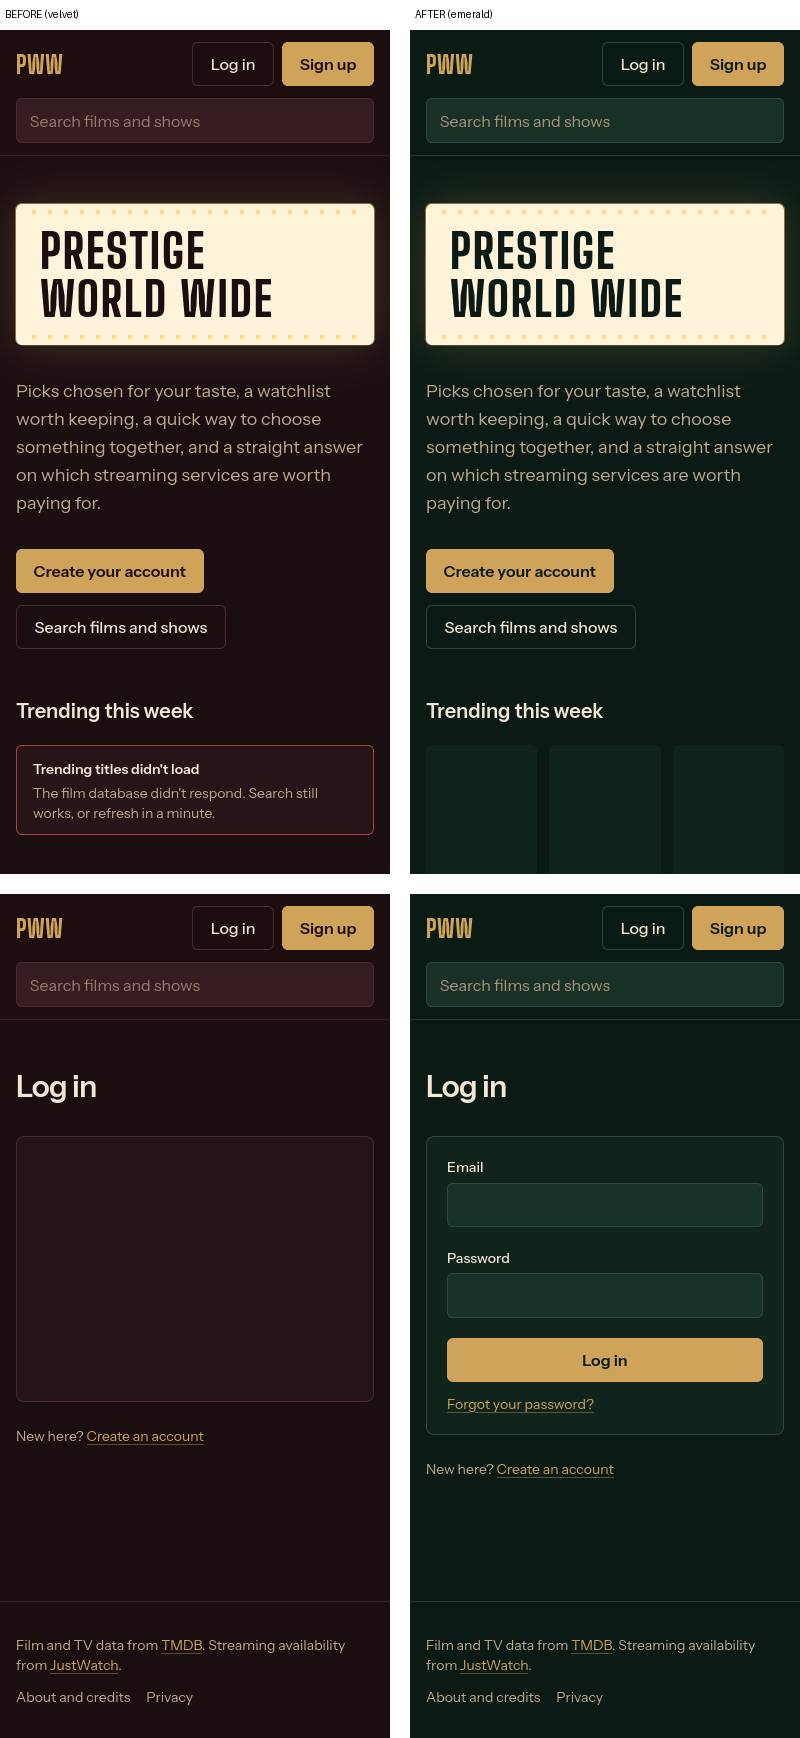
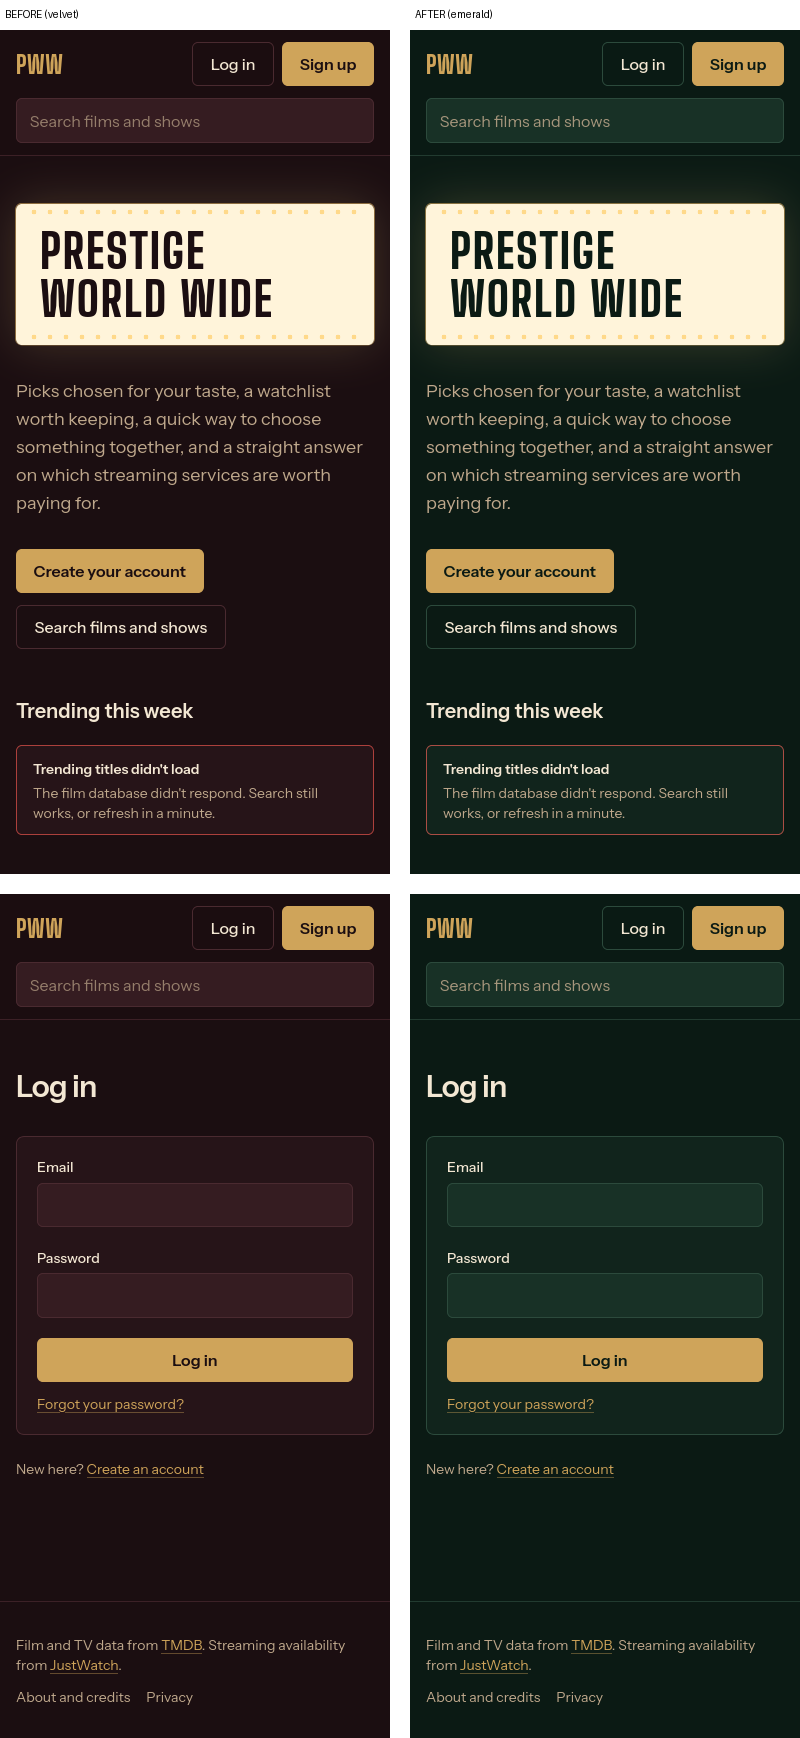
Palette review fixes: accurate contrast claims, like-for-like phone screenshots, email colours noted

Changed region(s): [[0.0312, 0.7146, 0.4375, 0.8389], [0.5625, 0.435, 0.7812, 0.4661], [0.0625, 0.6525, 0.0938, 0.6835]]

diff --git a/src/app/globals.css b/src/app/globals.css
@@ -6,8 +6,9 @@
  * you should press, and a backlit marquee for the one thing you should read.
  *
  * The surface names are fabrics, not colours: since 24 Nov the velvet is
- * emerald (docs/decisions.md -> Design). Every text colour here meets WCAG AA
- * on velvet, curtain and plush; docs/design.md -> Tokens has the ratios.
+ * emerald (docs/decisions.md -> Design). Every text colour meets WCAG AA on
+ * the backgrounds it's used on, but exit (error red) is only 4.2:1 on plush:
+ * never put error text on an input. docs/design.md -> Tokens has the ratios.
  */
 @theme {
   --color-velvet: #0b1a14;

diff --git a/TOM.md b/TOM.md
@@ -2,13 +2,13 @@
 
 **For Tom.** This is the one page to read. Agents rewrite it at the end of every session, in plain English. The technical detail lives in `docs/`.
 
-**Last updated:** 24 Nov 2026, by Claude (install hook session)
+**Last updated:** 25 Nov 2026, by Claude (emerald palette session)
 
 ---
 
 ## In one line
 
-Design direction chosen: emerald and brass. Cloud agents now install the app's packages themselves. Next: the package updates, the emerald colours, then the first live version.
+Three pull requests are waiting for you: cloud agents installing packages themselves, small package updates, and the new emerald look. After those: the TMDB token and Vercel, so the site can go live.
 
 ## Start building from your phone
 
@@ -28,6 +28,7 @@ Most important first. Agents add to this list and never remove an item until it'
 |---|---|---|---|
 | 0 | **Protect `main`** | So agents can't skip review. (PR #4 is merged, and the setup-script step is no longer needed: this session's PR installs packages automatically.) | GitHub → Pww2C → Settings → Branches → add a rule for `main`: require a pull request and passing checks. |
 | 1 | **Merge the install-hook PR** | Cloud agents install packages themselves once it's in. It also records emerald and brass as your design direction. | Review and merge it in the GitHub app. |
+| 1a | **Judge the emerald colours** | It's your look; the shades are the agent's proposal. | Open the emerald pull request and look at the before/after pictures (`docs/design/`). Merge it after the install-hook one, or say "lighter", "greener" or similar and an agent will adjust. |
 | 2 | **Skim the phase plans** | They're now filled in from your prototype. Anything that's wrong is cheapest to fix now. | `docs/specs/01`–`06`; items marked *(prototype)*. Say if any prototype extras should wait (#11). |
 | 3 | **Get a TMDB token** | The app can't load any films without it. | themoviedb.org → Settings → API → copy the long *API Read Access Token*. Put it straight into Vercel, never into a chat. |
 | 4 | **Set up Vercel** | This is what puts the site online. | Steps are in `docs/setup.md`. |
@@ -42,6 +43,12 @@ These are copied from `docs/open-questions.md`, and only the ones that are block
 ## What happened recently
 
 Newest first. Each session gets a few lines here, and the full detail goes in `docs/handoff.md`.
+
+**25 Nov 2026: The emerald look**
+- The site's dark red background is now deep emerald green, with the brass buttons, ivory text and lit-up marquee unchanged. Before/after pictures for desktop and phone are in the pull request.
+- Every bit of text was rechecked for readability on the new green. The error red is a touch brighter and placeholder text a touch stronger, so both stay easy to read.
+- The exact shades are my proposal. Say if you want them lighter, greener or warmer. This pull request sits on top of the install-hook one, so merge that one first.
+- I couldn't check a film page, because the site can't load films until it has the TMDB token. Only the home, search, log-in and sign-up pages were checked.
 
 **24 Nov 2026: Packages install themselves; emerald and brass**
 - Cloud agents now install the app's packages when a session starts, using a script kept in the code, so you don't need the claude.ai setup-script step. The first start takes about 20 seconds, and later starts skip the install.
@@ -65,11 +72,6 @@ Newest first. Each session gets a few lines here, and the full detail goes in `d
 - Your new rule is in place. Every change updates its docs at the same time, GitHub checks this automatically and blocks changes that skip it, and every doc shows when it was last updated.
 - The app code and all the docs are saved on GitHub. The code and the docs each had their own rulebook for agents; they're now merged into one.
 - Checked the code: it still builds and passes all 36 tests and the security checks. A few packages are slightly behind, and some developer-only tools have known security issues that never reach users. Details are in *Update list* below.
-- Nothing in the app changed.
-
-**17 Nov 2026: Docs starter pack**
-- Added the rulebook agents read before they touch anything (`CLAUDE.md`), this page, and docs for security, workflow, testing, costs and each upcoming feature.
-- Found that the database had paused itself, and that Claude couldn't see the GitHub repo yet.
 - Nothing in the app changed.
 
 ## Try it yourself

diff --git a/docs/handoff.md b/docs/handoff.md
@@ -1,6 +1,6 @@
 # Session handoffs
 
-**Last updated:** 24 Nov 2026
+**Last updated:** 25 Nov 2026
 
 One entry per session, **newest first**. Agents write here at the end of every session. Write it so the next agent (or Tom) can continue without reading the chat.
 
@@ -31,6 +31,48 @@ One entry per session, **newest first**. Agents write here at the end of every s
 **Next step**
 - …
 ```
+
+---
+
+## 2026-11-25: Emerald + brass palette
+**Agent/session:** Claude Code session  ·  **Branch/PR:** `feat/emerald-palette`, stacked on `docs/emerald-brass-and-install-hook` / see GitHub  ·  **Spec:** n/a (`design.md`)
+
+**Done**
+- `src/app/globals.css` tokens:
+  - velvet `#0b1a14`, curtain `#11241c`, plush `#183126`, seam `#2c4a3c`
+  - marquee-ink `#0b1a14`
+  - exit `#e5534b` → `#eb5f56`, plus its rgb hover tint
+  - placeholder opacity 0.7 → 0.85
+- `src/app/layout.tsx`: `themeColor` updated to match velvet.
+- Contrast: every text colour is WCAG AA on the backgrounds it's used on. The exception is `exit` on plush (4.2), which nothing uses; `design.md` says not to. The ratios are in `design.md` → *Tokens*; the script was a throwaway in the session scratchpad.
+- `design.md`: *Tokens* filled in (it was a TODO), and the direction note updated. `decisions.md`: the emerald values and keeping the token names.
+- Screenshots of `/`, `/login`, `/signup` and `/search` at 1280×900 and 390×844, before and after, taken with headless Firefox. Side-by-side images are in `docs/design/` (desktop: home and sign-up; phone: home and log-in).
+
+**Changed files / migrations**
+- `src/app/globals.css`, `src/app/layout.tsx`, `docs/design.md`, `docs/design/*.png`, `docs/decisions.md`, `docs/status.md`, `docs/handoff.md`, `TOM.md`, `CHANGELOG.md`. No schema.
+
+**Decisions made** (also added to decisions.md)
+- Deep, low-saturation emerald, as dark as the velvet it replaces. This is the agent's proposal and Tom judges it in the PR.
+- Token names kept: they're fabrics, not colours.
+
+**Not done / skipped, and why**
+- Title pages, account pages and poster grids weren't seen: there's no TMDB token, and nobody can sign in here. They use the same tokens, so they change the same way.
+- Playwright isn't installed on this machine (it's Tom's laptop session, not the cloud image), so I used snap Firefox's `--screenshot`.
+- `npm run test:db` not run: no database change.
+
+**Risks or things that look wrong**
+- The PR is stacked: merge the install-hook PR first, or this PR's diff will include that work too.
+- `seam` borders are 1.8:1 on velvet. The old ones were 1.5:1, so this is no worse. Fine for decorative lines, but input boundaries rely on the plush fill rather than the border.
+
+- The email templates still use the old velvet colour for button text. Not changed, because email changes need Tom (`design.md` notes it).
+- Claim row removed at finish, per `/finish`; *Next up* #3 says "PR open" until it merges.
+
+**Tom should check**
+- The before/after images. Is the green right?
+- Whether the confirmation and password-reset emails should switch to the emerald colour too.
+
+**Next step**
+- Update pass #2 after the package-updates PR merges, or `/plan-phase 1`.
 
 ---
 

diff --git a/docs/decisions.md b/docs/decisions.md
@@ -48,5 +48,5 @@ One line per decision, newest at the bottom of each section. If you change one, 
 ## Design (24 Nov 2026)
 
 - **Design direction: emerald and brass (Tom, 24 Nov; answers `open-questions.md` #10).** It replaces the velvet-red base of the theatre lobby with dark emerald and keeps brass as the accent. Tom named a palette, not a new layout, so agents read it as: still dark only, still the backlit marquee and the self-hosted fonts. That reading is the agent's, not Tom's; he can correct it in the palette PR. The values are in `design.md` → *Tokens*.
-- **Emerald values: deep, low-saturation greens (25 Nov, agent's proposal for Tom to judge in the PR).** Page `#0b1a14`, cards `#11241c`, inputs `#183126`, borders `#2c4a3c`. They're as dark as the velvet they replace, so ivory text and brass keep the same contrast and the marquee stays the brightest thing on the page. Brass, ivory, the marquee and the success green are unchanged. The error red moved from `#e5534b` to `#eb5f56` to stay above 4.5:1 on cards, and placeholders went from 70% to 85% opacity. Not chosen: a brighter, more saturated emerald, which would compete with the brass.
+- **Emerald values: deep, low-saturation greens (25 Nov, agent's proposal for Tom to judge in the PR).** Page `#0b1a14`, cards `#11241c`, inputs `#183126`, borders `#2c4a3c`. They're slightly lighter than the velvet they replace, so ivory and brass lose a little contrast but stay well above AA, and the marquee stays the brightest thing on the page. Brass, ivory, the marquee and the success green are unchanged. The error red moved from `#e5534b` to `#eb5f56` to stay above 4.5:1 on cards, and placeholders went from 70% to 85% opacity. Not chosen: a brighter, more saturated emerald, which would compete with the brass.
 - **Token names stay `velvet`, `curtain`, `plush`, `seam` (25 Nov).** They name fabrics, not colours (velvet can be green), so no component changed. Renaming them would touch about 15 class names for no gain to users.

diff --git a/docs/design.md b/docs/design.md
@@ -20,15 +20,17 @@ Colours, as Tailwind theme tokens (`bg-curtain`, `text-program`, `border-seam` a
 | `velvet` | `#0b1a14` | page background; text on brass buttons | |
 | `curtain` | `#11241c` | cards, panels, notices, skeletons | |
 | `plush` | `#183126` | text inputs | |
-| `seam` | `#2c4a3c` | borders and dividers (decorative) | 1.8:1 on velvet. Not used as text |
+| `seam` | `#2c4a3c` | borders and dividers; input and quiet-button borders | 1.8 velvet · 1.7 curtain · 1.4 plush. Below the 3:1 WCAG asks for input borders (the old palette was lower still): a known gap to fix in the polish phase. Not used as text |
 | `ivory` | `#f3e7d3` | body text | 14.7 velvet · 13.3 curtain · 11.4 plush |
 | `program` | `#bfa88c` | secondary text; placeholders at 85% | 7.8 velvet · 7.1 curtain · 6.1 plush · placeholder 4.8 |
 | `brass` | `#cfa45a` | primary buttons, links, focus ring | 7.8 on velvet; velvet on brass 7.8 |
 | `brass-bright` | `#e6c27e` | primary button hover | velvet on it 10.6 |
 | `marquee` | `#fff4da` | the backlit marquee | |
 | `marquee-ink` | `#0b1a14` | marquee text (same as velvet) | 16.4 on marquee |
-| `exit` | `#eb5f56` | errors, destructive actions (was `#e5534b`, brightened for curtain) | 5.4 velvet · 4.9 curtain |
+| `exit` | `#eb5f56` | errors, destructive actions (was `#e5534b`, brightened for curtain) | 5.4 velvet · 4.9 curtain · **4.2 plush: never put error text on an input**. Delete button on its hover tint: 4.7 on velvet, 4.3 on curtain, so keep it on velvet |
 | `go` | `#8fc98f` | success messages | 9.3 velvet · 8.5 curtain |
+
+Not yet emerald: the auth email templates (`supabase/templates/confirmation.html`, `recovery.html`) still use the old velvet `#1b0e11` for button text. Changing email is on the ask-Tom list (`CLAUDE.md`), so it waits for him.
 
 Fonts: `font-display` = Big Shoulders Display (marquee only), `font-sans` = Instrument Sans (everything else). The browser theme colour in `src/app/layout.tsx` matches `velvet`.
 

diff --git a/docs/open-questions.md b/docs/open-questions.md
@@ -1,6 +1,6 @@
 # Open questions
 
-**Last updated:** 24 Nov 2026
+**Last updated:** 25 Nov 2026
 
 Decisions only Tom can make. Agents add questions here instead of guessing, then add anything blocking work to `TOM.md` → *Needs you*. When Tom answers, record the answer, move it to `decisions.md`, and mark it answered here.
 
@@ -16,6 +16,7 @@ Decisions only Tom can make. Agents add questions here instead of guessing, then
 | 7 | Analytics: none, privacy-friendly (e.g. Vercel Analytics), or full? | Privacy policy, cost | Phase 7 | 17 Nov 2026 |
 | 9 | Tom says the Foundations code and these docs are both out of date. What else has changed in his thinking (features, stack, design, decisions)? *Partly answered 18 Nov: the prototype (`product.md` → Prototype).* | Agents can find technical gaps, but not changes in Tom's plans | The update pass before phase 1 | 17 Nov 2026 |
 | 11 | The prototype adds features the plan didn't have: the *Evening Edit* home feature, streaming rotation, taste-match, watch diary, trailer link, similar titles, profile stats. They're in the specs now. Keep all in v1, or cut some? | Scope and build time | Nothing yet (default: keep) | 18 Nov 2026 |
+| 12 | Should the confirmation and password-reset emails switch to the emerald colours? They still use the old velvet red for button text. Changing email is on the ask-Tom list | Small visual mismatch between site and emails | Nothing (default: change it with phase 7 email setup) | 25 Nov 2026 |
 
 ## Answered
 

diff --git a/CHANGELOG.md b/CHANGELOG.md
@@ -1,12 +1,15 @@
 # Changelog
 
-**Last updated:** 17 Nov 2026
+**Last updated:** 25 Nov 2026
 
 What changed **for users**, newest first. Internal-only changes (refactors, docs) don't go here.
 
 Add entries under *Unreleased* as PRs merge. At the end of each phase, rename *Unreleased* to the version and date.
 
 ## Unreleased
+
+### Update pass
+- New look: deep emerald green with brass, in place of the dark red. Error messages and placeholder text are slightly easier to read
 
 ### Phase 0: Foundations
 - Create an account, confirm your email, log in, reset your password, and delete your account
